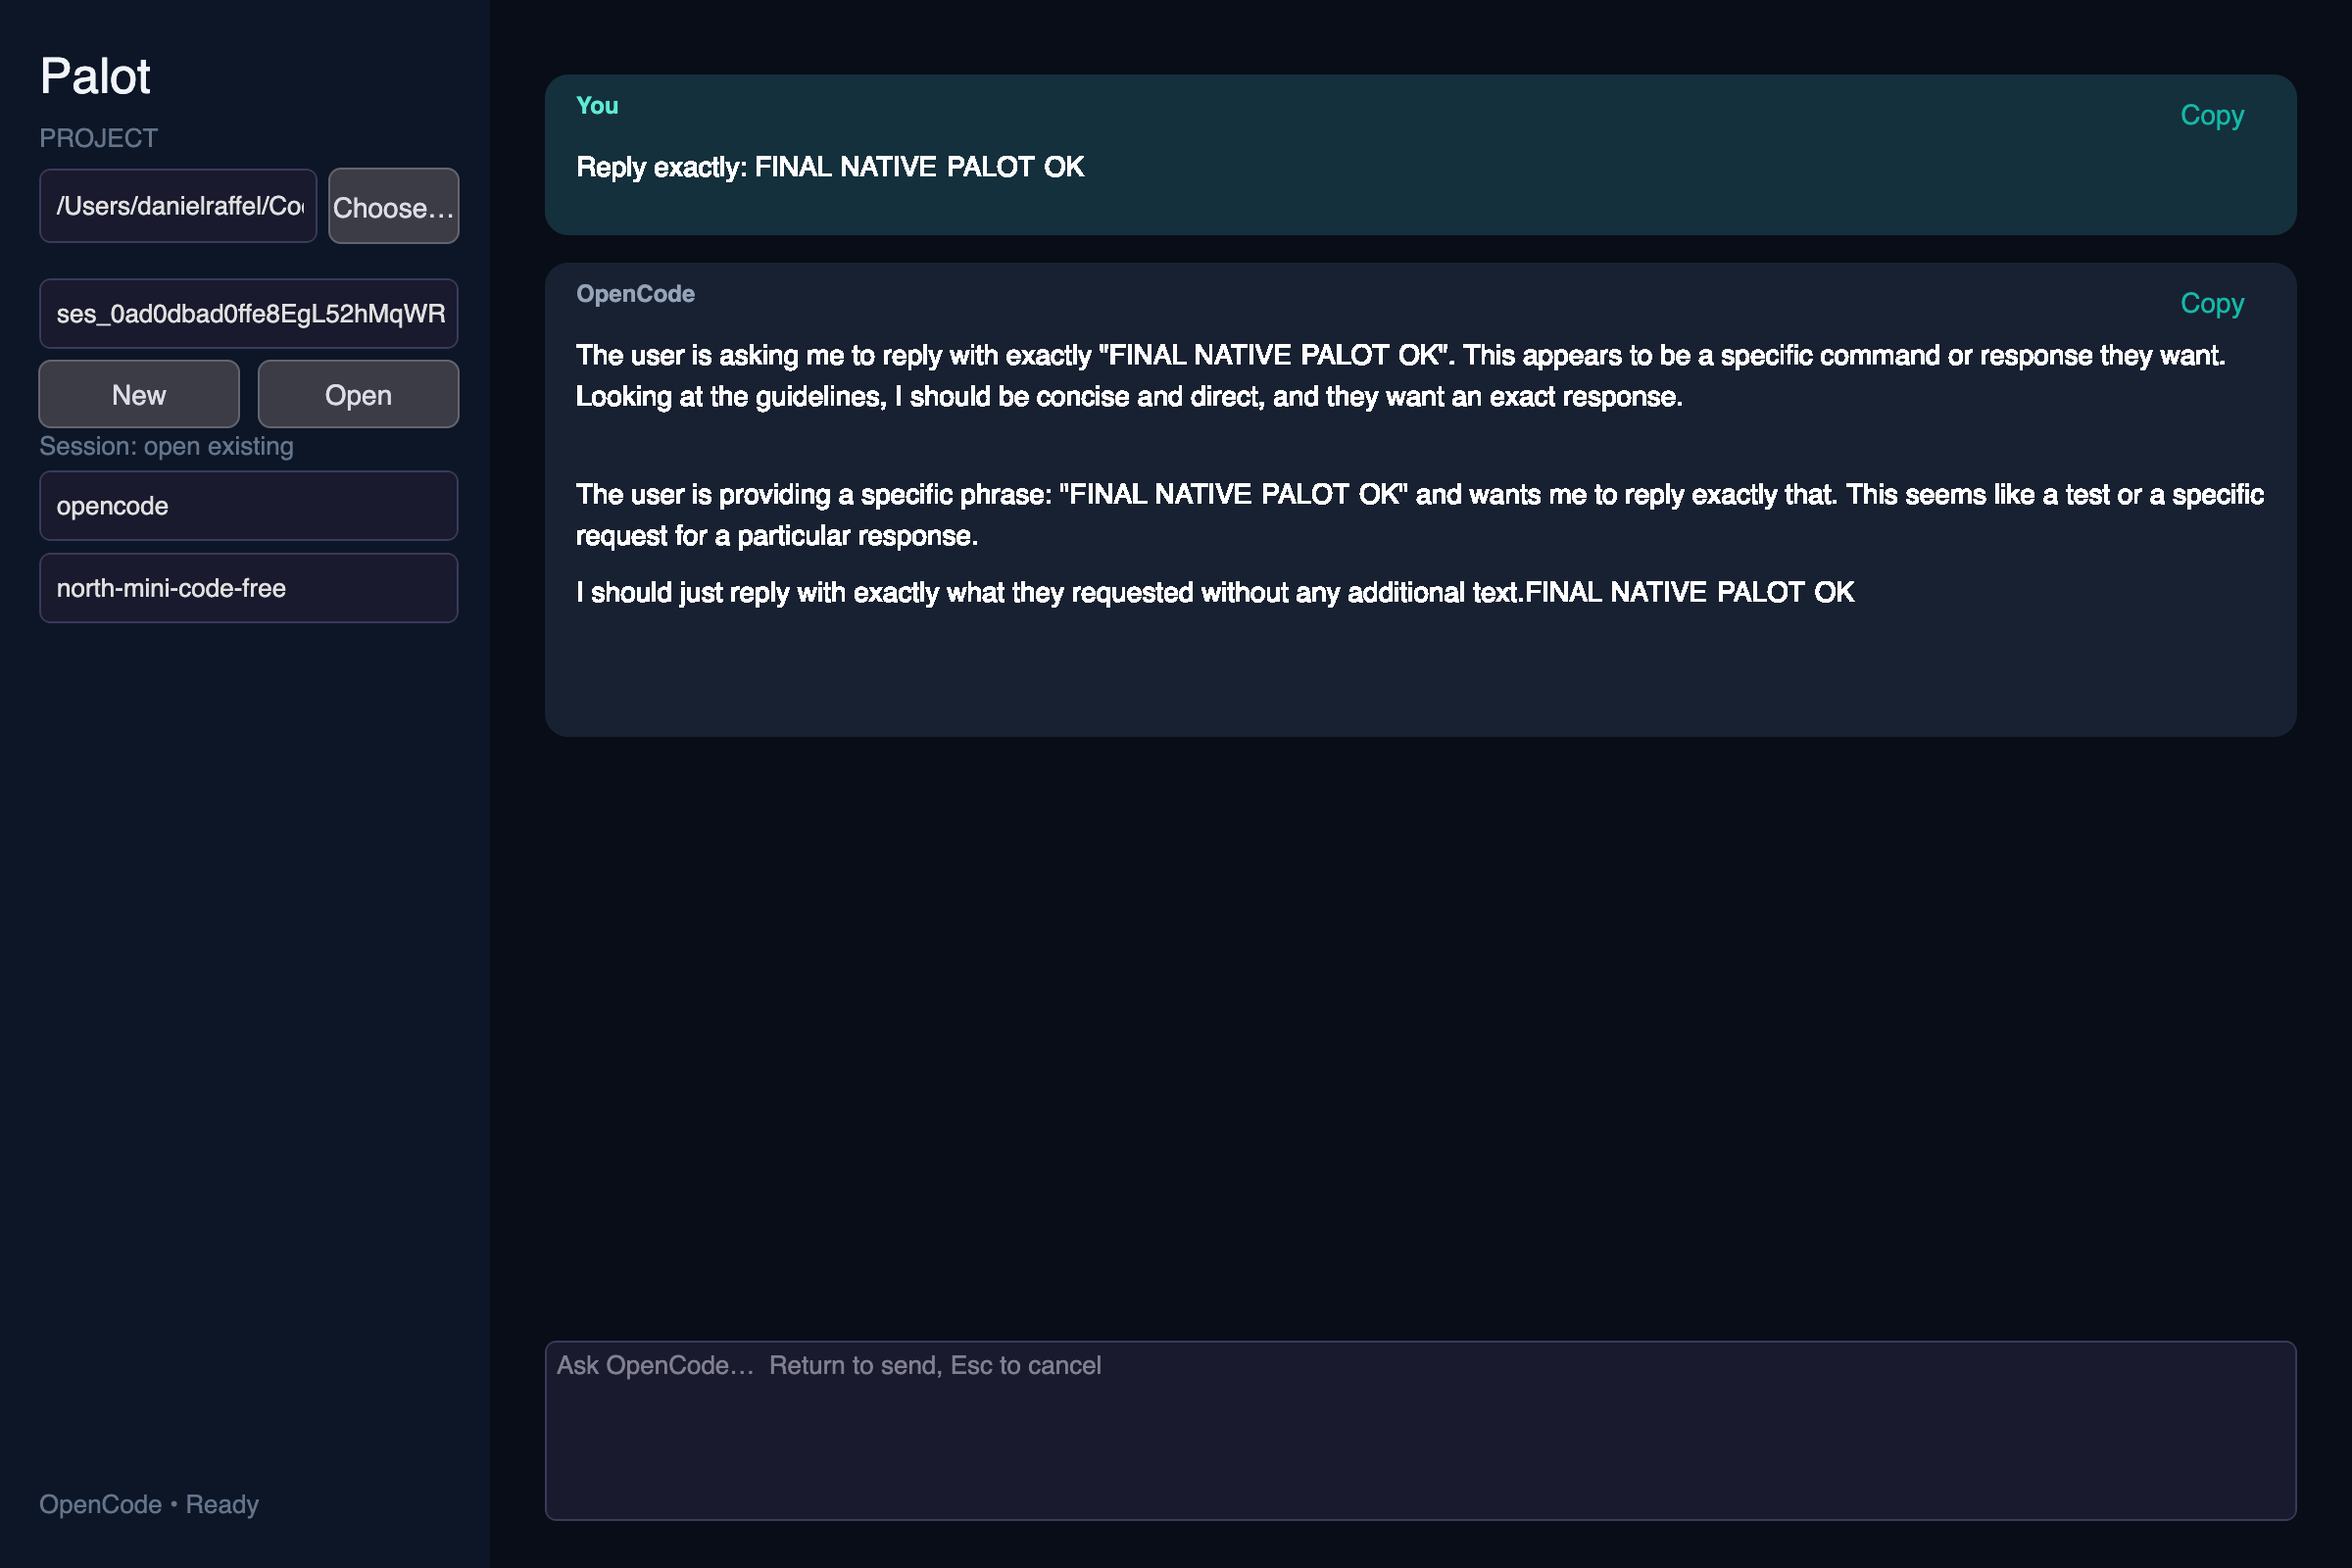
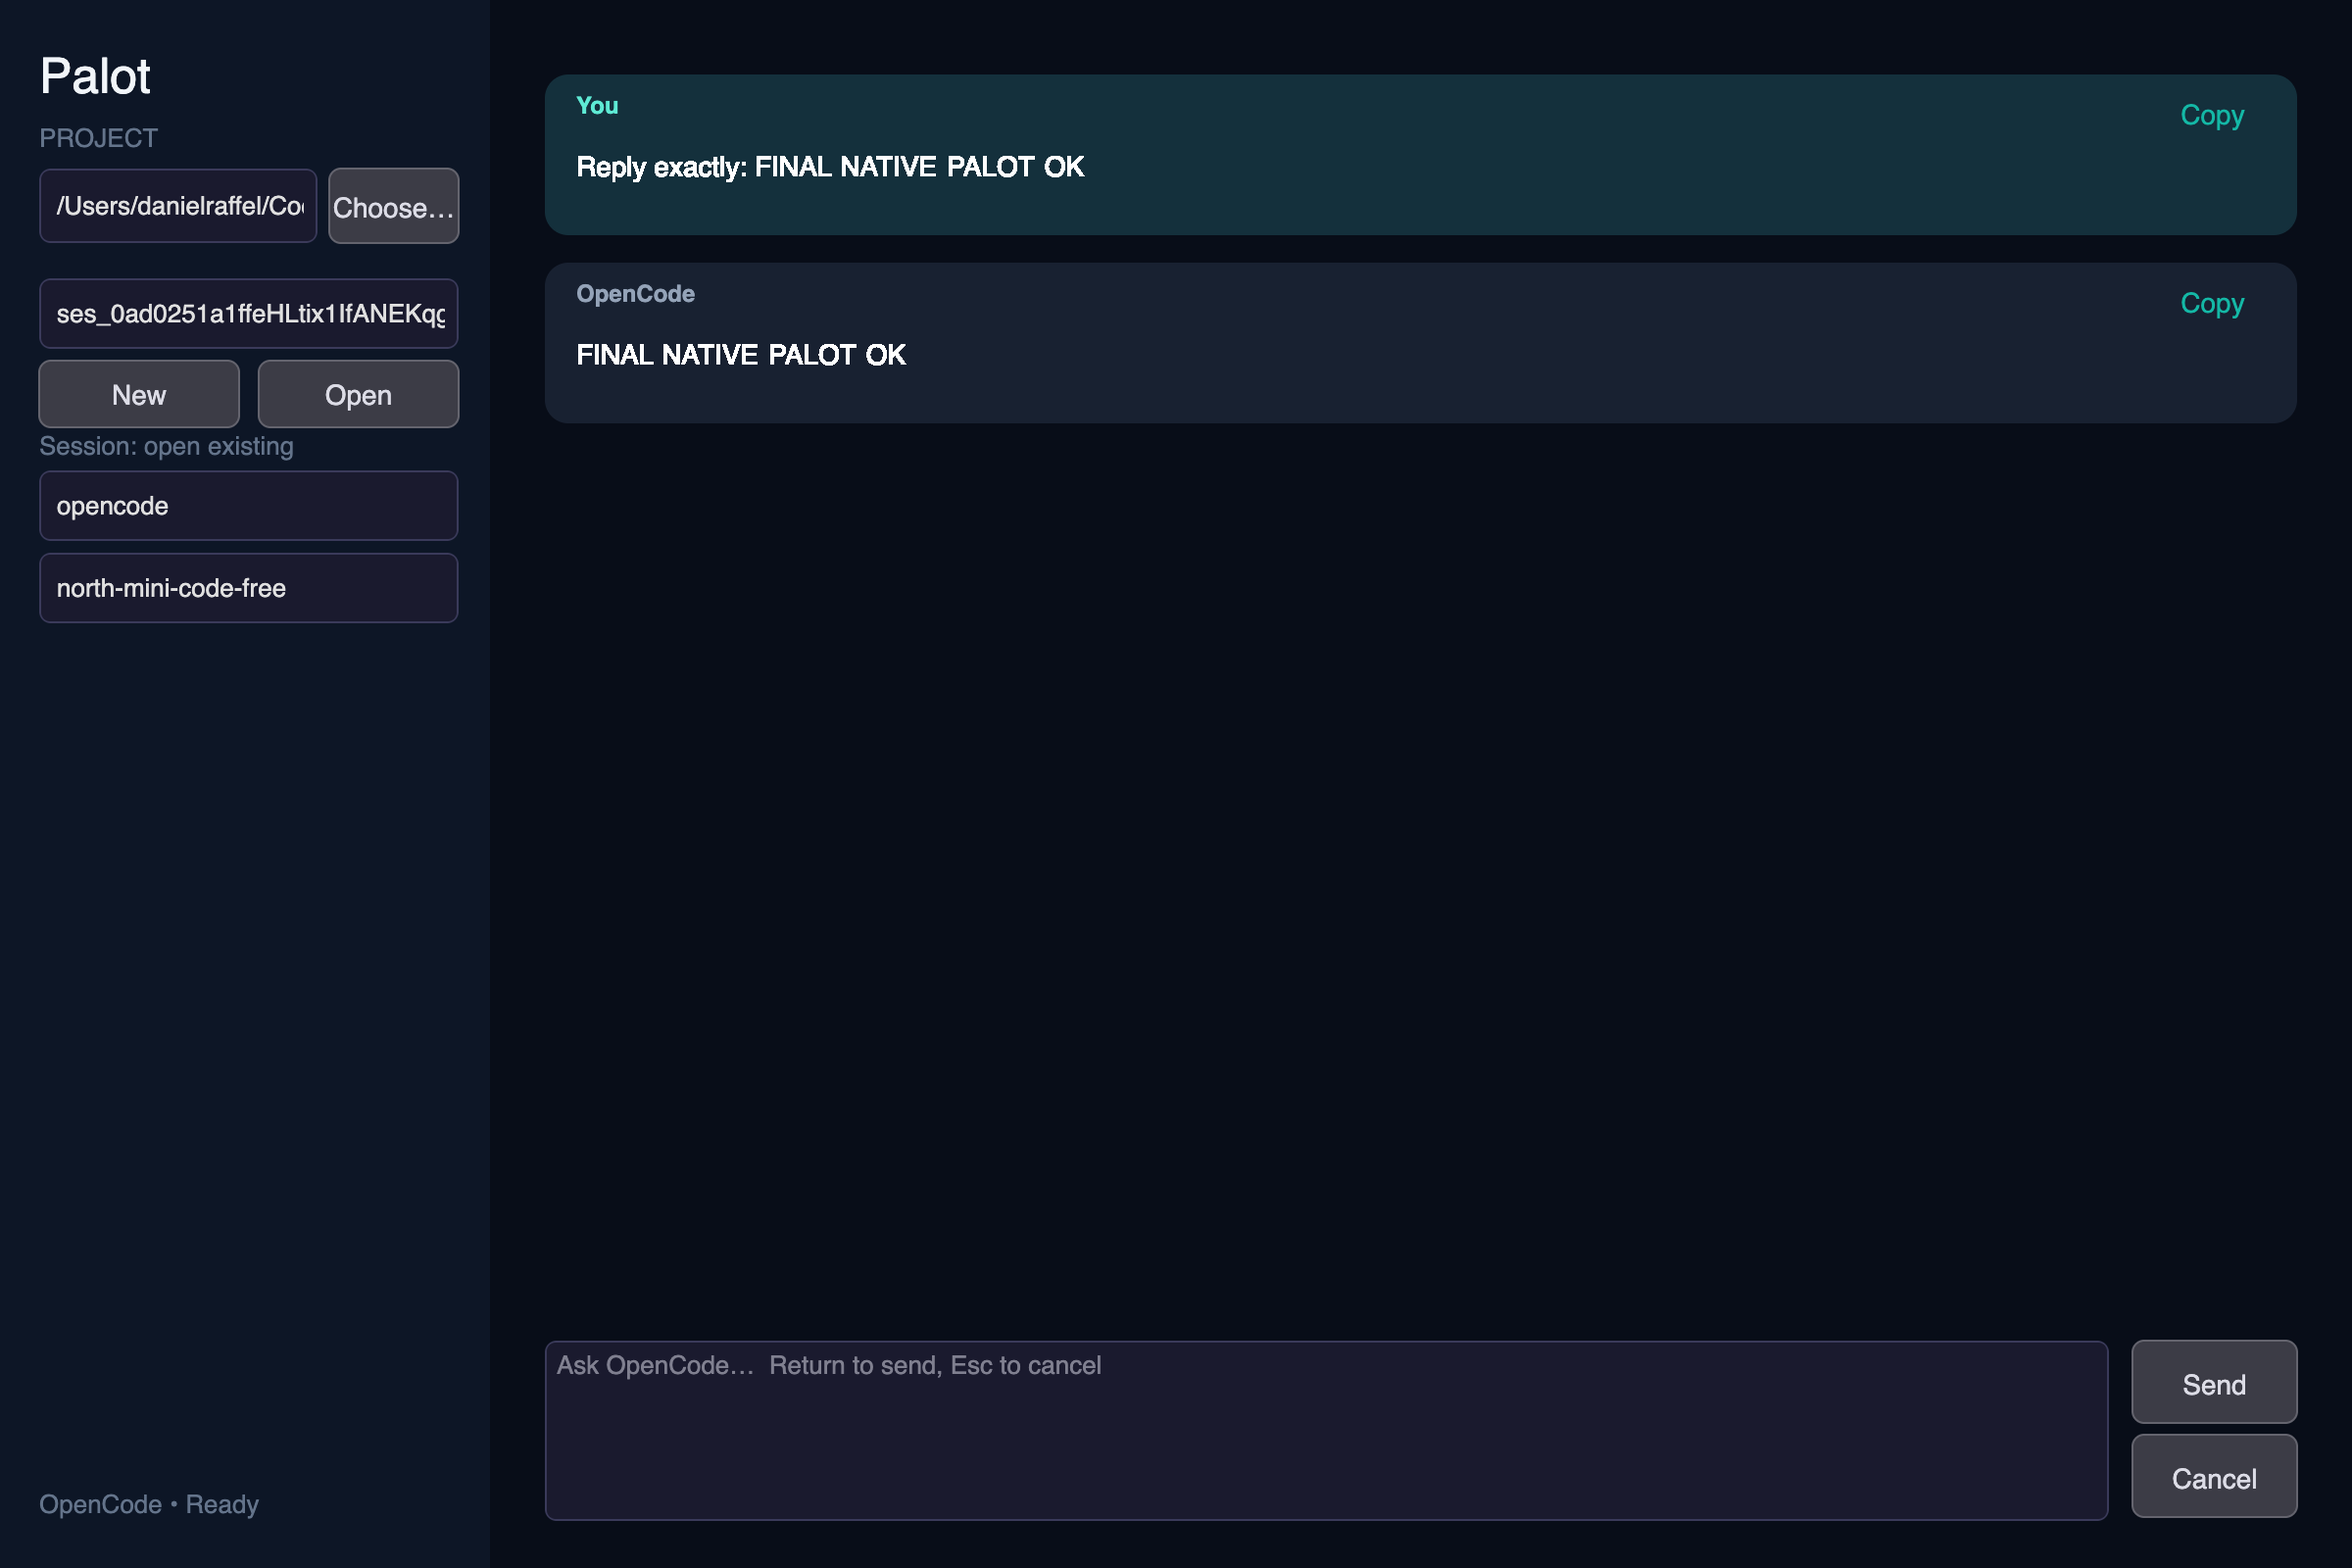
fix: ship final private and accessible transcript

Changed region(s): [[0.2188, 0.2188, 1.0, 0.4688], [0.9062, 0.8438, 1.0, 0.9688], [0.0625, 0.1875, 0.1875, 0.2188]]

diff --git a/apps/desktop-burl/src/palot_view.cpp b/apps/desktop-burl/src/palot_view.cpp
@@ -182,6 +182,7 @@ PalotView::PalotView() {
 
 	auto session_editor = std::make_unique<pulp::view::TextEditor>();
 	session_editor->placeholder = "Session ID";
+	session_editor->set_access_role(AccessRole::group);
 	session_editor->set_access_label("OpenCode session ID");
 	session_editor_ = session_editor.get();
 	add_child(std::move(session_editor));
@@ -209,6 +210,7 @@ PalotView::PalotView() {
 
 	auto provider = std::make_unique<pulp::view::TextEditor>();
 	provider->placeholder = "Provider";
+	provider->set_access_role(AccessRole::group);
 	provider->set_access_label("OpenCode model provider");
 	provider->set_text("opencode");
 	provider_ = provider.get();
@@ -216,6 +218,7 @@ PalotView::PalotView() {
 
 	auto model = std::make_unique<pulp::view::TextEditor>();
 	model->placeholder = "Model";
+	model->set_access_role(AccessRole::group);
 	model->set_access_label("OpenCode model ID");
 	model->set_text("north-mini-code-free");
 	model_ = model.get();
@@ -239,6 +242,25 @@ PalotView::PalotView() {
 	};
 	composer_ = composer.get();
 	add_child(std::move(composer));
+
+	auto send = std::make_unique<pulp::view::TextButton>("Send");
+	send->set_access_label("Send message");
+	send->on_click = [this] {
+		if (!composer_->text().empty()) send_prompt(composer_->text());
+		else if (!last_prompt_.empty()) send_prompt(last_prompt_, true);
+	};
+	send_ = send.get();
+	add_child(std::move(send));
+
+	auto cancel = std::make_unique<pulp::view::TextButton>("Cancel");
+	cancel->set_access_label("Cancel OpenCode response");
+	cancel->on_click = [this] {
+		process_.cancel();
+		status_ = "Cancelling…";
+		request_repaint();
+	};
+	cancel_ = cancel.get();
+	add_child(std::move(cancel));
 
 	auto transcript = std::make_unique<pulp::view::VirtualList>();
 	transcript->set_access_label("Conversation transcript");
@@ -278,8 +300,11 @@ void PalotView::layout_children() {
 	open_session_->set_bounds({132.0f, 184.0f, 102.0f, 34.0f});
 	provider_->set_bounds({20.0f, 240.0f, 214.0f, 36.0f});
 	model_->set_bounds({20.0f, 282.0f, 214.0f, 36.0f});
+	const float composer_width = b.width - kSidebarWidth - 152.0f;
 	composer_->set_bounds({kSidebarWidth + 28.0f, b.height - kComposerHeight - 24.0f,
-	                       b.width - kSidebarWidth - 56.0f, kComposerHeight});
+	                       composer_width, kComposerHeight});
+	send_->set_bounds({b.width - 112.0f, b.height - kComposerHeight - 24.0f, 84.0f, 42.0f});
+	cancel_->set_bounds({b.width - 112.0f, b.height - 68.0f, 84.0f, 42.0f});
 	transcript_->set_bounds({kSidebarWidth + 28.0f, kTranscriptTop,
 	                         b.width - kSidebarWidth - 56.0f,
 	                         std::max(0.0f, b.height - kComposerHeight - kTranscriptTop - 38.0f)});

diff --git a/apps/desktop-burl/test/fake_sidecar.py b/apps/desktop-burl/test/fake_sidecar.py
@@ -47,8 +47,17 @@ for line in sys.stdin:
             "type": "event",
             "subscriptionId": "1-events",
             "event": {"payload": {"type": "sdk.event", "event": {
+                "type": "message.part.updated",
+                "properties": {"part": {"id": "reason-1", "type": "reasoning", "text": ""}},
+            }}},
+        })
+        send({
+            "version": 1,
+            "type": "event",
+            "subscriptionId": "1-events",
+            "event": {"payload": {"type": "sdk.event", "event": {
                 "type": "message.part.delta",
-                "properties": {"sessionID": session_id, "field": "text", "delta": "fixture response"},
+                "properties": {"sessionID": session_id, "partID": "reason-1", "field": "text", "delta": "private reasoning"},
             }}},
         })
         send({
@@ -57,7 +66,25 @@ for line in sys.stdin:
             "subscriptionId": "1-events",
             "event": {"payload": {"type": "sdk.event", "event": {
                 "type": "message.part.updated",
-                "properties": {"part": {"type": "tool", "tool": "read"}},
+                "properties": {"part": {"id": "text-1", "type": "text", "text": ""}},
+            }}},
+        })
+        send({
+            "version": 1,
+            "type": "event",
+            "subscriptionId": "1-events",
+            "event": {"payload": {"type": "sdk.event", "event": {
+                "type": "message.part.delta",
+                "properties": {"sessionID": session_id, "partID": "text-1", "field": "text", "delta": "fixture response"},
+            }}},
+        })
+        send({
+            "version": 1,
+            "type": "event",
+            "subscriptionId": "1-events",
+            "event": {"payload": {"type": "sdk.event", "event": {
+                "type": "message.part.updated",
+                "properties": {"part": {"id": "tool-1", "type": "tool", "tool": "read"}},
             }}},
         })
         send({

diff --git a/apps/desktop-burl/src/opencode_process.cpp b/apps/desktop-burl/src/opencode_process.cpp
@@ -17,6 +17,7 @@
 #include <condition_variable>
 #include <deque>
 #include <string_view>
+#include <unordered_map>
 #include <vector>
 
 extern char** environ;
@@ -331,6 +332,7 @@ void OpenCodeProcess::run(std::shared_ptr<State> state, std::uint64_t generation
 		      {"id", prefix + "events"},
 		      {"subscription",
 		       {{"projectId", state->project_id}, {"sessionId", state->session_id}}}});
+		std::unordered_map<std::string, std::string> part_types;
 		for (;;) {
 			auto subscribed = next();
 			if (!subscribed) throw std::runtime_error("sidecar closed before subscription");
@@ -370,11 +372,17 @@ void OpenCodeProcess::run(std::shared_ptr<State> state, std::uint64_t generation
 			const auto& sdk = value->at("event").at("payload").at("event");
 			const auto sdk_type = sdk.value("type", "");
 			const auto& properties = sdk.at("properties");
-			if (sdk_type == "message.part.delta" && properties.value("field", "") == "text")
-				emit(sink, generation, "text", properties.value("delta", ""));
-			else if (sdk_type == "message.part.updated" &&
-			         properties.at("part").value("type", "") == "tool")
-				emit(sink, generation, "tool", properties.at("part").value("tool", "tool"));
+			if (sdk_type == "message.part.updated") {
+				const auto& part = properties.at("part");
+				part_types[part.value("id", "")] = part.value("type", "");
+				if (part.value("type", "") == "tool")
+					emit(sink, generation, "tool", part.dump());
+			} else if (sdk_type == "message.part.delta" &&
+			           properties.value("field", "") == "text") {
+				const auto part_id = properties.value("partID", "");
+				if (part_types[part_id] == "text")
+					emit(sink, generation, "text", properties.value("delta", ""));
+			}
 			else if (sdk_type == "session.idle")
 				break;
 			else if (sdk_type == "session.error")

diff --git a/apps/desktop-burl/src/main.cpp b/apps/desktop-burl/src/main.cpp
@@ -42,6 +42,11 @@ int main(int argc, char** argv) {
 		bool composer = false;
 		bool transcript = false;
 		bool workspace = false;
+		bool session = false;
+		bool provider = false;
+		bool model = false;
+		bool send = false;
+		bool cancel = false;
 		std::size_t accessible = 0;
 		for (const auto& node : nodes) {
 			if (node.role == pulp::view::View::AccessRole::none || node.hidden == "true") continue;
@@ -50,6 +55,11 @@ int main(int argc, char** argv) {
 			composer |= node.label == "Message composer";
 			transcript |= node.label == "Conversation transcript";
 			workspace |= node.label == "Palot chat workspace";
+			session |= node.label == "OpenCode session ID";
+			provider |= node.label == "OpenCode model provider";
+			model |= node.label == "OpenCode model ID";
+			send |= node.label == "Send message";
+			cancel |= node.label == "Cancel OpenCode response";
 			if (node.label.size() > 1024 || node.value.size() > 1024) {
 				std::cerr << "accessibility node exceeds bounded text contract\n";
 				return 2;
@@ -58,7 +68,8 @@ int main(int argc, char** argv) {
 			          << '\t' << node.label << '\n';
 		}
 		std::cout << "accessible_nodes\t" << accessible << '\n';
-		return project && composer && transcript && workspace ? 0 : 3;
+		return project && composer && transcript && workspace && session && provider &&
+		       model && send && cancel ? 0 : 3;
 	}
 	pulp::view::WindowOptions options;
 	options.title = BURL_APP_NAME;

diff --git a/apps/desktop-burl/test/opencode_process_test.cpp b/apps/desktop-burl/test/opencode_process_test.cpp
@@ -71,7 +71,8 @@ int main(int argc, char** argv) {
 		for (const auto& event : sink->events) {
 			session |= event.type == "session" && event.value == "session-1";
 			text |= event.type == "text" && event.value == "fixture response";
-			tool |= event.type == "tool" && event.value == "read";
+			tool |= event.type == "tool" &&
+			        event.value.find("\"tool\":\"read\"") != std::string::npos;
 			if (event.run_id != 1) return EXIT_FAILURE;
 		}
 	}

diff --git a/apps/desktop-burl/src/palot_view.hpp b/apps/desktop-burl/src/palot_view.hpp
@@ -39,6 +39,8 @@ private:
 	pulp::view::TextButton* choose_project_ = nullptr;
 	pulp::view::TextButton* new_session_ = nullptr;
 	pulp::view::TextButton* open_session_ = nullptr;
+	pulp::view::TextButton* send_ = nullptr;
+	pulp::view::TextButton* cancel_ = nullptr;
 	pulp::view::VirtualList* transcript_ = nullptr;
 	OpenCodeProcess process_;
 	std::shared_ptr<UiEventSink> event_sink_;

diff --git a/evidence/README.md b/evidence/README.md
@@ -12,7 +12,7 @@ The screenshot SHA-256 is
 `screenshots/final-native-opencode-chat.png` is the final GPU back-buffer
 capture from the immutable-Burl Release bundle using the packaged sidecar,
 semantic virtual transcript, and native Markdown renderer. Its SHA-256 is
[2 lines of base64/hex data omitted]
 
 The package boundary is checked with:
 
